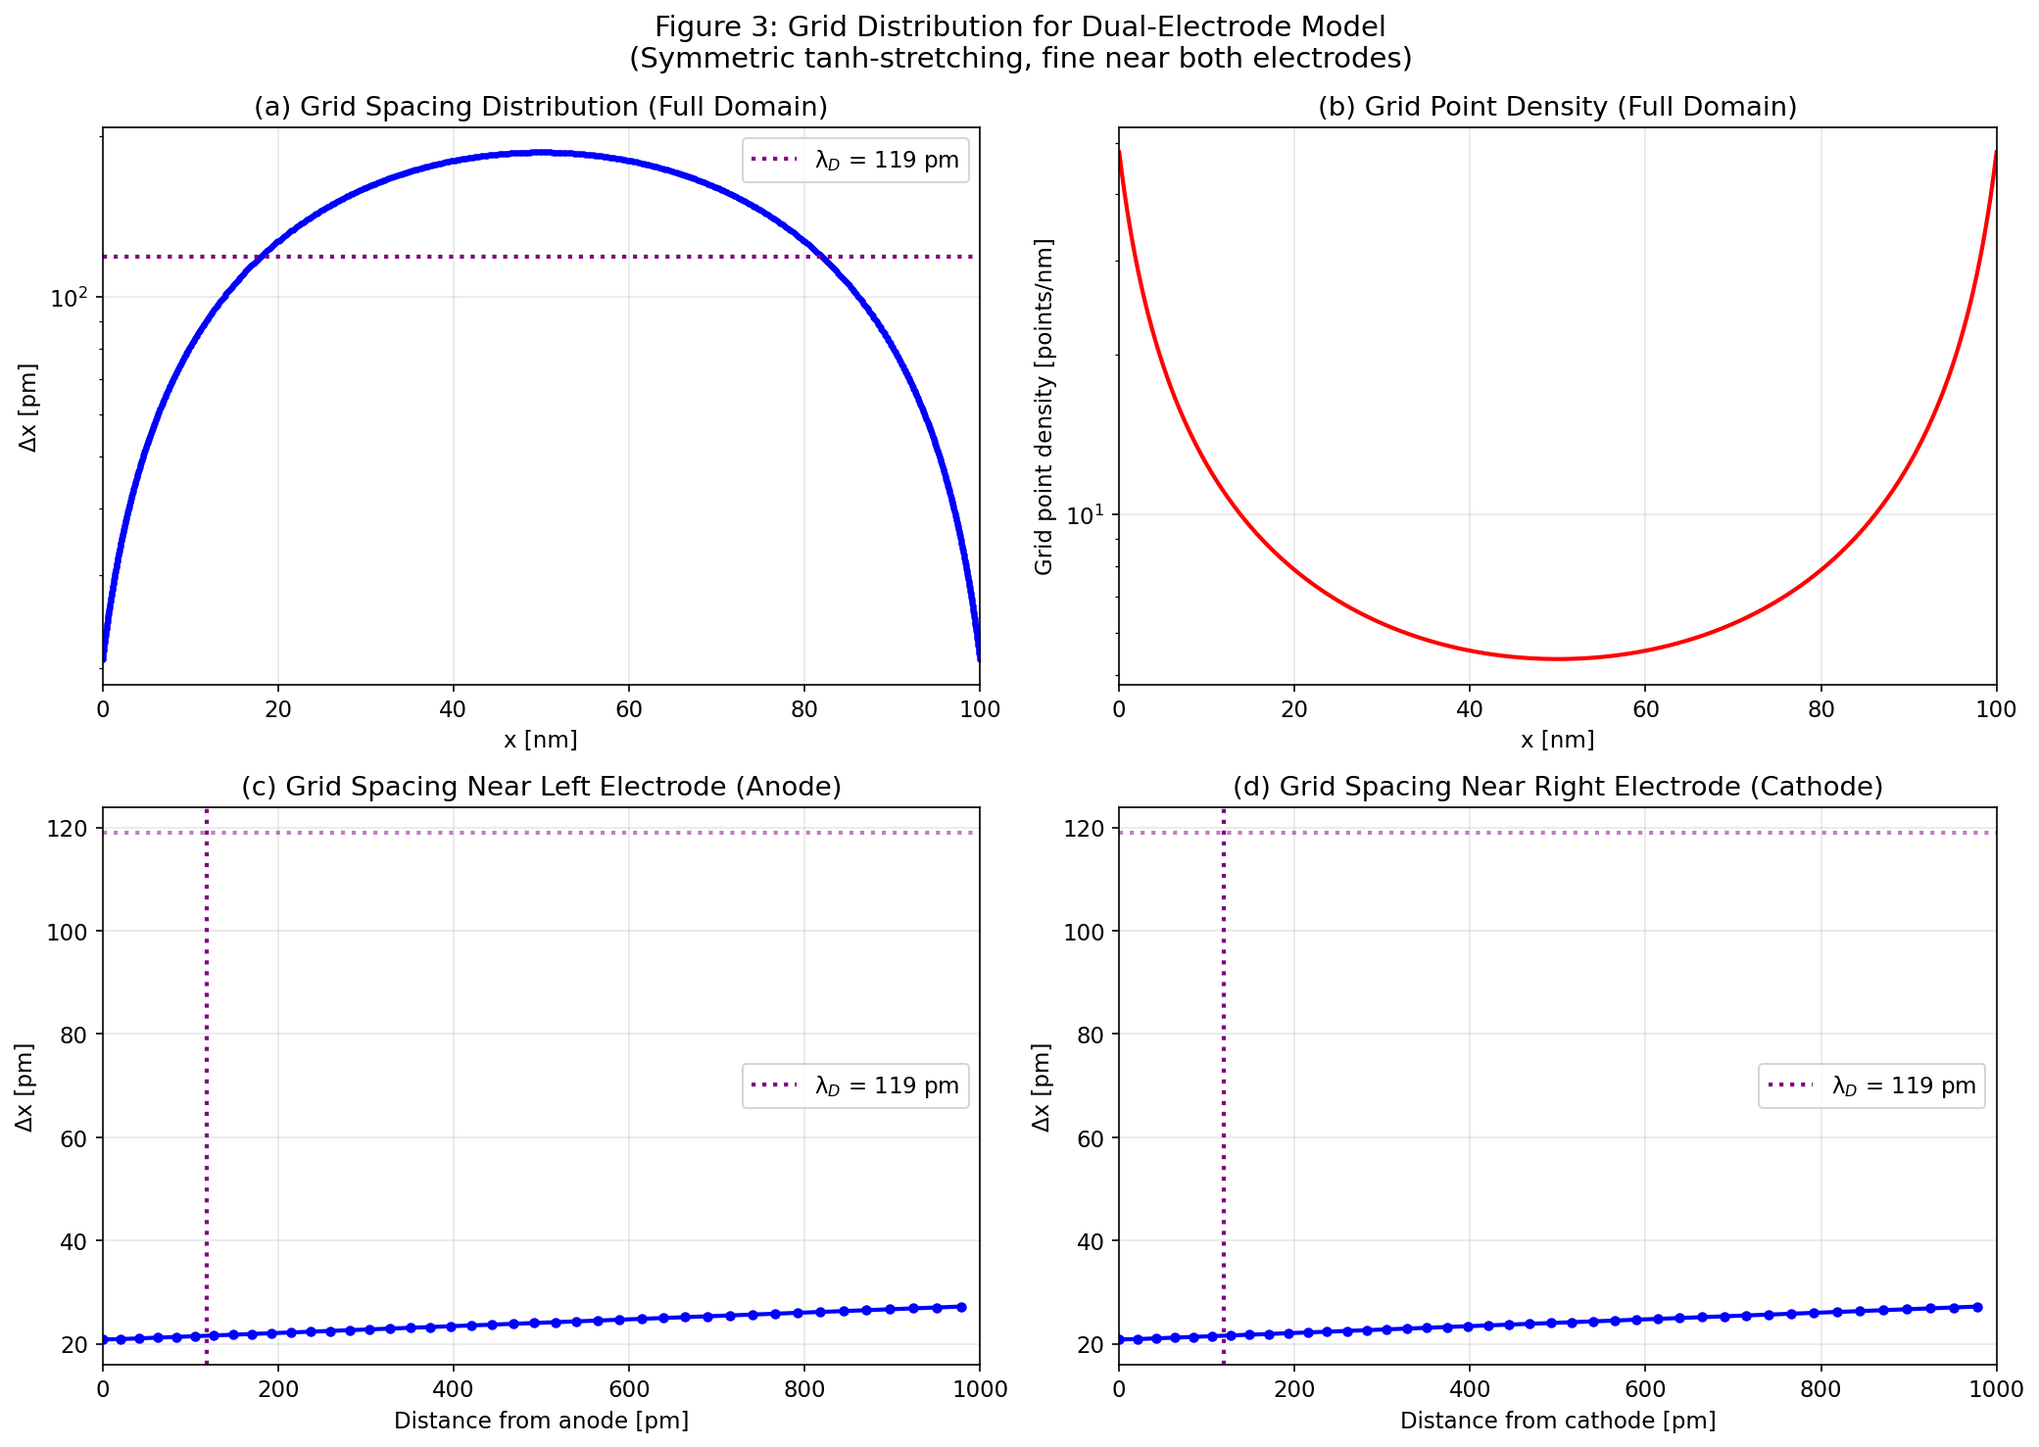
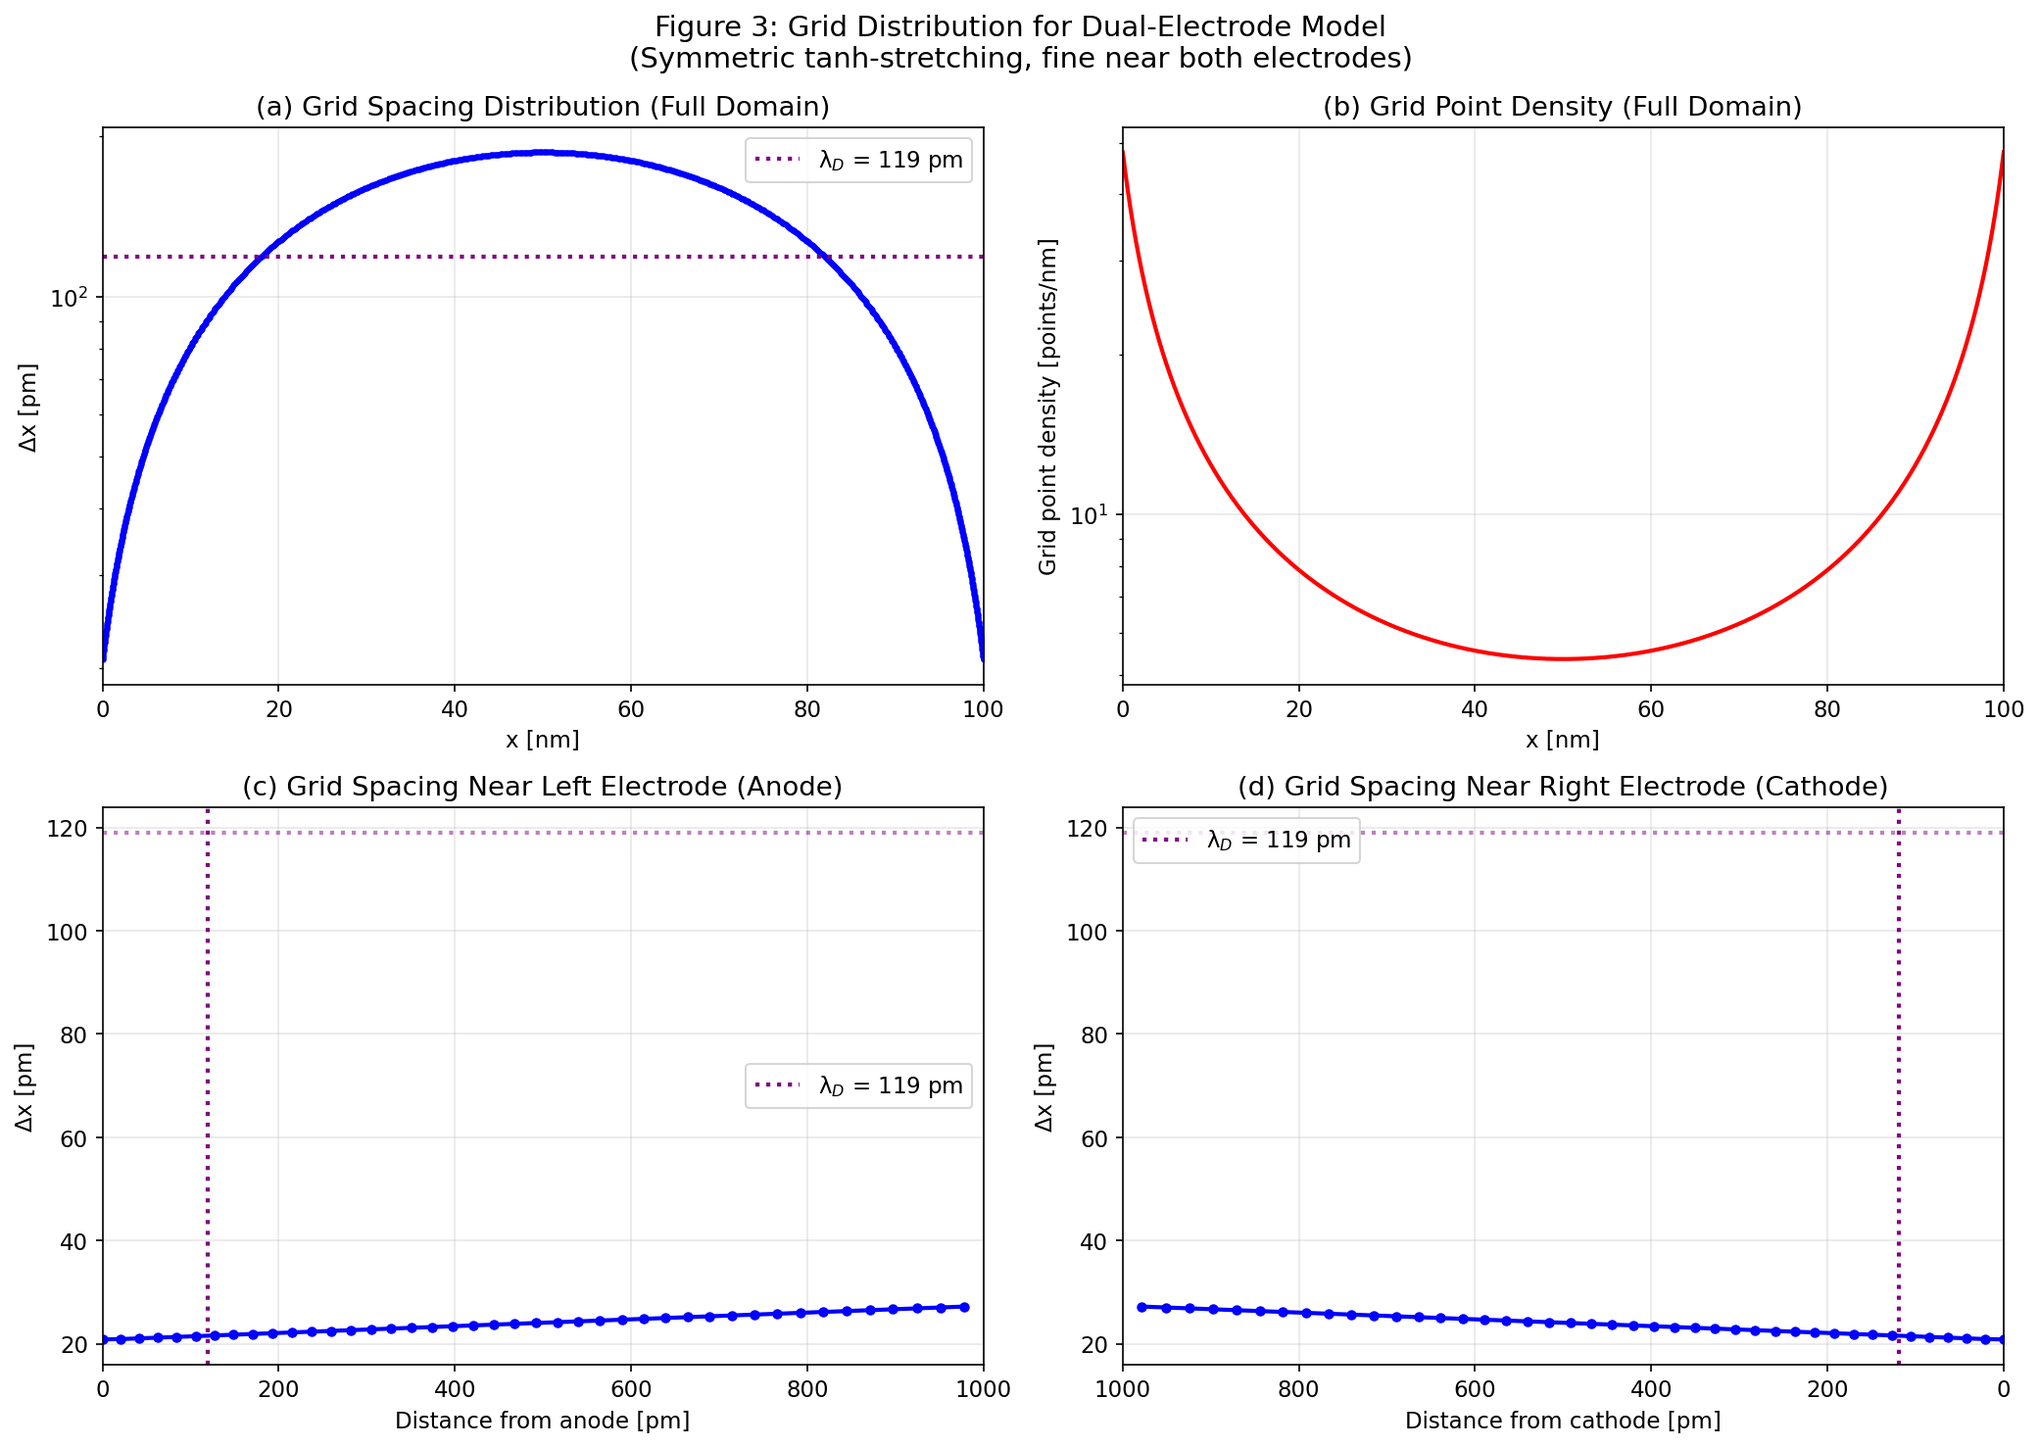
Add plot style guide and mirror right EDL display
- Add styles/ directory with standard plot style utilities
- Mirror right EDL plots (x-axis inverted) for better comparison with left EDL
- Update README with new simulation results (50/0 mV configuration)
- Update CLAUDE.md with plot style guide section

🤖 Generated with [Claude Code](https://claude.com/claude-code)

diff --git a/scripts/plot_dual_electrode.py b/scripts/plot_dual_electrode.py
@@ -117,17 +117,18 @@ lines2, labels2 = ax3b.get_legend_handles_labels()
 ax3.legend(lines1 + lines2, labels1 + labels2, loc='right', fontsize=8)
 
 # Bottom right: Right electrode EDL (zoomed) - Linear scale with potential
+# Mirror image: x-axis reversed so electrode appears on right side
 ax4 = fig.add_subplot(2, 2, 4)
 mask_right = x_nm >= 99.5
 x_right_pm = (100 - x_nm[mask_right]) * 1000  # Distance from cathode in pm
 
-# Plot potential on left axis
+# Plot potential on left axis (data order unchanged, axis inverted)
 ax4.plot(x_right_pm[::-1], phi_mV[mask_right][::-1], 'k-', linewidth=2, label='φ [mV]')
 ax4.axhline(y=phi_bulk_mV, color='gray', linestyle='--', linewidth=1, alpha=0.5)
 ax4.set_xlabel('Distance from cathode [pm]')
 ax4.set_ylabel('φ [mV]')
 ax4.set_title(f'(d) Right EDL (Cathode, φ = {phi_right_mV:+.0f} mV)\nEMI$^+$ accumulation, BF$_4^-$ depletion')
-ax4.set_xlim([0, 500])
+ax4.set_xlim([500, 0])  # Inverted x-axis: electrode on right
 # Dynamic y-limits: from electrode potential to bulk potential with margin
 right_edl_ylim = [min(phi_bulk_mV, phi_right_mV) - 5, max(phi_bulk_mV, phi_right_mV) + 5]
 ax4.set_ylim(right_edl_ylim)
@@ -150,7 +151,7 @@ ax4b.fill_between(x_right_pm[::-1], 0, c_plus_ratio[mask_right][::-1], alpha=0.1
 # Combined legend
 lines1, labels1 = ax4.get_legend_handles_labels()
 lines2, labels2 = ax4b.get_legend_handles_labels()
-ax4.legend(lines1 + lines2, labels1 + labels2, loc='right', fontsize=8)
+ax4.legend(lines1 + lines2, labels1 + labels2, loc='center left', fontsize=8)  # Legend on left side
 
 plt.suptitle(f'Figure 1: Dual-Electrode Model - EMI-BF$_4$ Ionic Liquid\n(φ$_L$ = {phi_left_mV:+.0f} mV, φ$_R$ = {phi_right_mV:+.0f} mV, φ$_{{bulk}}$ = {phi_bulk_mV:.0f} mV, c$_0$ = 1 M, λ$_D$ = 119 pm)',
              fontsize=14, y=0.98)
@@ -187,7 +188,7 @@ lambda_D_pm = 119  # pm
 ax1.axvline(x=lambda_D_pm, color='purple', linestyle=':', linewidth=2, label=f'λ$_D$ = {lambda_D_pm} pm')
 ax1.legend()
 
-# Right EDL with linear scale
+# Right EDL with linear scale (mirror image: electrode on right)
 ax2 = axes[1]
 mask_right = x_nm >= 99.5
 x_right_pm = (100 - x_nm[mask_right]) * 1000  # Distance from cathode in pm
@@ -198,7 +199,7 @@ ax2.axhline(y=1, color='gray', linestyle='--', linewidth=0.5, label='bulk')
 ax2.set_xlabel('Distance from cathode [pm]')
 ax2.set_ylabel('c/c$_0$ [-]')
 ax2.set_title(f'(b) Right EDL (Cathode, φ = {phi_right_mV:+.0f} mV)\nCation accumulation, Anion depletion')
-ax2.set_xlim([0, 500])
+ax2.set_xlim([500, 0])  # Inverted x-axis: electrode on right
 ax2.set_ylim([0, 8])
 ax2.grid(True, alpha=0.3)
 ax2.legend()
@@ -206,7 +207,7 @@ ax2.fill_between(x_right_pm[::-1], 0, c_plus_ratio[mask_right][::-1], alpha=0.2,
 
 # Add Debye length marker
 ax2.axvline(x=lambda_D_pm, color='purple', linestyle=':', linewidth=2, label=f'λ$_D$ = {lambda_D_pm} pm')
-ax2.legend()
+ax2.legend(loc='upper left')  # Legend on left side
 
 plt.suptitle('Figure 2: EDL Structure at Both Electrodes (Linear Scale)', fontsize=14, y=1.02)
 plt.tight_layout()
@@ -258,7 +259,7 @@ ax3.axvline(x=119, color='purple', linestyle=':', linewidth=2, label=f'λ$_D$ = 
 ax3.axhline(y=119, color='purple', linestyle=':', linewidth=2, alpha=0.5)
 ax3.legend()
 
-# Bottom right: Zoomed view near right electrode
+# Bottom right: Zoomed view near right electrode (mirror image: electrode on right)
 ax4 = axes[1, 1]
 mask_right = x_nm >= 99.0
 x_right_pm = (100 - x_nm[mask_right]) * 1000  # Distance from cathode
@@ -268,11 +269,11 @@ ax4.plot(x_right_pm[::-1], dx_right_pm[::-1], 'b-', linewidth=2, marker='o', mar
 ax4.set_xlabel('Distance from cathode [pm]')
 ax4.set_ylabel('Δx [pm]')
 ax4.set_title('(d) Grid Spacing Near Right Electrode (Cathode)')
-ax4.set_xlim([0, 1000])
+ax4.set_xlim([1000, 0])  # Inverted x-axis: electrode on right
 ax4.grid(True, alpha=0.3)
 ax4.axvline(x=119, color='purple', linestyle=':', linewidth=2, label=f'λ$_D$ = 119 pm')
 ax4.axhline(y=119, color='purple', linestyle=':', linewidth=2, alpha=0.5)
-ax4.legend()
+ax4.legend(loc='upper left')  # Legend on left side
 
 plt.suptitle('Figure 3: Grid Distribution for Dual-Electrode Model\n(Symmetric tanh-stretching, fine near both electrodes)',
              fontsize=14, y=0.98)

diff --git a/styles/plot_style.py b/styles/plot_style.py
@@ -1,0 +1,125 @@
+#!/usr/bin/env python3
+"""
+Standard plot style for PNP project.
+Reference: PhD thesis plots (plot1.ipynb style)
+
+Usage:
+    from styles.plot_style import setup_plot_style, setup_axis_style
+
+    fig, ax = plt.subplots(figsize=(3.7, 3.7))
+    setup_axis_style(ax)
+"""
+
+import matplotlib.pyplot as plt
+from matplotlib.ticker import AutoMinorLocator, MultipleLocator
+
+
+def setup_plot_style():
+    """Setup global matplotlib style for publication-quality plots."""
+    plt.rcParams.update({
+        'font.size': 10,
+        'axes.labelsize': 10,
+        'axes.labelweight': 'bold',
+        'axes.titlesize': 10,
+        'axes.titleweight': 'bold',
+        'xtick.labelsize': 10,
+        'ytick.labelsize': 10,
+        'legend.fontsize': 8,
+        'figure.figsize': (3.7, 3.7),
+        'figure.dpi': 150,
+        'savefig.dpi': 300,
+        'savefig.bbox': 'tight',
+    })
+
+
+def setup_axis_style(ax, minor_x=None, minor_y=5):
+    """
+    Setup axis style for publication-quality plots.
+
+    Parameters:
+    -----------
+    ax : matplotlib.axes.Axes
+        The axes to style
+    minor_x : int or float, optional
+        Minor tick interval for x-axis. If int, uses AutoMinorLocator(n).
+        If float, uses MultipleLocator(value). Default: AutoMinorLocator(5)
+    minor_y : int or float, optional
+        Minor tick interval for y-axis. Same logic as minor_x.
+        Default: AutoMinorLocator(5)
+    """
+    # Tick positions on both sides
+    ax.xaxis.set_ticks_position('both')
+    ax.yaxis.set_ticks_position('both')
+
+    # Major ticks
+    ax.xaxis.set_tick_params(which='major', direction='in', length=6, width=1, labelsize=10)
+    ax.yaxis.set_tick_params(which='major', direction='in', length=6, width=1, labelsize=10)
+
+    # Minor ticks
+    ax.xaxis.set_tick_params(which='minor', direction='in', length=3)
+    ax.yaxis.set_tick_params(which='minor', direction='in', length=3)
+    ax.tick_params(which='minor', direction='in', length=3)
+
+    # Minor tick locators
+    if minor_x is not None:
+        if isinstance(minor_x, int):
+            ax.xaxis.set_minor_locator(AutoMinorLocator(minor_x))
+        else:
+            ax.xaxis.set_minor_locator(MultipleLocator(minor_x))
+    else:
+        ax.xaxis.set_minor_locator(AutoMinorLocator(5))
+
+    if minor_y is not None:
+        if isinstance(minor_y, int):
+            ax.yaxis.set_minor_locator(AutoMinorLocator(minor_y))
+        else:
+            ax.yaxis.set_minor_locator(MultipleLocator(minor_y))
+    else:
+        ax.yaxis.set_minor_locator(AutoMinorLocator(5))
+
+
+def set_labels(ax, xlabel, ylabel, fontsize=10, fontweight='bold'):
+    """Set axis labels with standard formatting."""
+    ax.set_xlabel(xlabel, fontsize=fontsize, fontweight=fontweight)
+    ax.set_ylabel(ylabel, fontsize=fontsize, fontweight=fontweight)
+
+
+# Standard figure sizes
+FIGURE_SIZES = {
+    'single': (3.7, 3.7),      # Single panel
+    'wide': (6, 4),            # Wide single panel
+    'double': (7, 3.5),        # Two panels side by side
+    '2x2': (7, 7),             # 2x2 grid
+    'thesis': (3.7, 3.7),      # Thesis standard
+}
+
+# Standard colors (viridis-based)
+from matplotlib import cm
+def get_viridis_colors(n):
+    """Get n colors from viridis colormap."""
+    cmap = cm.get_cmap('viridis', n)
+    return [cmap(i) for i in range(n)]
+
+
+# Example usage
+if __name__ == '__main__':
+    import numpy as np
+
+    setup_plot_style()
+
+    fig, ax = plt.subplots(figsize=FIGURE_SIZES['single'])
+
+    x = np.linspace(0, 10, 100)
+    colors = get_viridis_colors(5)
+    for i, c in enumerate(colors):
+        ax.plot(x, np.sin(x + i), color=c, linewidth=1)
+
+    set_labels(ax, r'$x$ (units)', r'$y$ (units)')
+    setup_axis_style(ax)
+
+    ax.set_xlim(0, 10)
+    ax.set_ylim(-1.5, 1.5)
+
+    plt.tight_layout()
+    plt.savefig('test_style.png')
+    print("Saved: test_style.png")

diff --git a/styles/__init__.py b/styles/__init__.py
@@ -1,0 +1,16 @@
+"""Plot style utilities for PNP project."""
+from .plot_style import (
+    setup_plot_style,
+    setup_axis_style,
+    set_labels,
+    get_viridis_colors,
+    FIGURE_SIZES,
+)
+
+__all__ = [
+    'setup_plot_style',
+    'setup_axis_style',
+    'set_labels',
+    'get_viridis_colors',
+    'FIGURE_SIZES',
+]

diff --git a/README.md b/README.md
@@ -532,12 +532,12 @@ $$p = \frac{\log(L_2^{(1)} / L_2^{(2)})}{\log(N^{(2)} / N^{(1)})}$$
 #### シミュレーション条件
 
 ```bash
-./build/pnp_solver --phi0 100 --phi-right 0 --closed-system --c0 1.0
+./build/pnp_solver --phi0 50 --phi-right 0 --closed-system --c0 1.0
 ```
 
-- 左電極電位（アノード）: $\phi_L = +100$ mV
+- 左電極電位（アノード）: $\phi_L = +50$ mV
 - 右電極電位（カソード）: $\phi_R = 0$ mV
-- バルク電位（自己無撞着に決定）: $\phi_{\text{bulk}} = +50$ mV
+- バルク電位（自己無撞着に決定）: $\phi_{\text{bulk}} = +25$ mV
 - バルク濃度: $c_0 = 1.0$ mol/L
 - 計算領域: $L = 100$ nm
 
@@ -545,15 +545,15 @@ $$p = \frac{\log(L_2^{(1)} / L_2^{(2)})}{\log(N^{(2)} / N^{(1)})}$$
 
 <div align="center">
 
-![Dual Electrode](results/dual_electrode.png?v=5)
+![Dual Electrode](results/dual_electrode.png?v=6)
 
-*図1: EMI-BF₄イオン液体の両電極モデル（φ_L = +100 mV, φ_R = 0 mV, φ_bulk = 50 mV）。(a) 電位プロファイル（全領域）、(b) イオン濃度分布（対数スケール）、(c) 左電極（アノード）近傍のEDL構造、(d) 右電極（カソード）近傍のEDL構造。(c), (d)では左軸に電位、右軸に濃度（線形スケール）を表示。Debye長（λ_D = 119 pm）およびイオン直径（EMI⁺: 760 pm、BF₄⁻: 460 pm）をマーカーで表示。*
+*図1: EMI-BF₄イオン液体の両電極モデル（φ_L = +50 mV, φ_R = 0 mV, φ_bulk = 25 mV）。(a) 電位プロファイル（全領域）、(b) イオン濃度分布（対数スケール）、(c) 左電極（アノード）近傍のEDL構造、(d) 右電極（カソード）近傍のEDL構造（左右反転表示で電極が右端）。(c), (d)では左軸に電位、右軸に濃度（線形スケール）を表示。Debye長（λ_D = 119 pm）およびイオン直径（EMI⁺: 760 pm、BF₄⁻: 460 pm）をマーカーで表示。*
 
 </div>
 
 <div align="center">
 
-![Grid Points](results/dual_electrode_grid_points.png?v=5)
+![Grid Points](results/dual_electrode_grid_points.png?v=6)
 
 *図2: 格子点位置の可視化。両電極近傍の EDL 領域（5λ_D）にそれぞれ 27 点を配置し、バルク領域は粗い格子で効率化。*
 
@@ -561,17 +561,17 @@ $$p = \frac{\log(L_2^{(1)} / L_2^{(2)})}{\log(N^{(2)} / N^{(1)})}$$
 
 | 位置 | 電位 [mV] | c+ [mol/m³] | c+/c₀ | c- [mol/m³] | c-/c₀ |
 |:-----|----------:|------------:|------:|------------:|------:|
-| 左端 (x = 0) | +100.0 | 142.8 | 0.143 | 7001 | 7.00 |
-| バルク (x = L/2) | +50.0 | 1000.0 | 1.00 | 1000.0 | 1.00 |
-| 右端 (x = L) | 0.0 | 7001 | 7.00 | 142.8 | 0.143 |
+| 左端 (x = 0) | +50.0 | 378 | 0.378 | 2646 | 2.65 |
+| バルク (x = L/2) | +25.0 | 1000.0 | 1.00 | 1000.0 | 1.00 |
+| 右端 (x = L) | 0.0 | 2646 | 2.65 | 378 | 0.378 |
 
 **物理的解釈**:
 
-- 左電極（φ = +100 mV、バルク基準で+50 mV）: カチオン（EMI⁺）が排除され（c+/c₀ = 0.14）、アニオン（BF₄⁻）が蓄積（c-/c₀ = 7.0）
-- 右電極（φ = 0 mV、バルク基準で-50 mV）: アニオン（BF₄⁻）が排除され（c-/c₀ = 0.14）、カチオン（EMI⁺）が蓄積（c+/c₀ = 7.0）
-- バルク領域（x ≈ L/2）: 電気的中性（c+/c₀ = c-/c₀ = 1.0）、電位 = 50 mV
-- 両電極でEDLが対称的に形成される（バルク基準での実効電位差 = ±50 mV）
-- 濃度比 exp(±50 mV / 25.7 mV) ≈ 7.0 は Boltzmann 分布と一致
+- 左電極（φ = +50 mV、バルク基準で+25 mV）: カチオン（EMI⁺）が排除され（c+/c₀ = 0.38）、アニオン（BF₄⁻）が蓄積（c-/c₀ = 2.65）
+- 右電極（φ = 0 mV、バルク基準で-25 mV）: アニオン（BF₄⁻）が排除され（c-/c₀ = 0.38）、カチオン（EMI⁺）が蓄積（c+/c₀ = 2.65）
+- バルク領域（x ≈ L/2）: 電気的中性（c+/c₀ = c-/c₀ = 1.0）、電位 = 25 mV
+- 両電極でEDLが対称的に形成される（バルク基準での実効電位差 = ±25 mV）
+- 濃度比 exp(±25 mV / 25.7 mV) ≈ 2.65 は Boltzmann 分布と一致
 
 #### 境界条件オプション
 
@@ -608,13 +608,13 @@ $$p = \frac{\log(L_2^{(1)} / L_2^{(2)})}{\log(N^{(2)} / N^{(1)})}$$
 **例**:
 
 ```bash
-# ユーザー指定: +100 mV / 0 mV
-./build/pnp_solver --phi0 100 --phi-right 0 --closed-system
+# ユーザー指定: +50 mV / 0 mV
+./build/pnp_solver --phi0 50 --phi-right 0 --closed-system
 
 # 結果:
-# - 電荷中性を満たすオフセット: δ = -50 mV
-# - 実効境界条件: +50 mV / -50 mV
-# - バルク電位（中央）: ≈ 0 mV = (100 + 0)/2 - 50
+# - 電荷中性を満たすオフセット: δ = -25 mV
+# - 実効境界条件: +25 mV / -25 mV
+# - バルク電位（中央）: ≈ 0 mV（計算座標系）, 25 mV（ユーザー座標系）
 ```
 
 このように、閉鎖系ではユーザーが指定した電位差は維持されるが、絶対電位（バルク電位）は系が自己無撞着に決定する。これは物理的に正しい挙動であり、実際のキャパシタでは電極間の電位差のみが意味を持ち、絶対電位は外部回路の接地点によって決まる。
@@ -820,10 +820,14 @@ pnp/
 │   └── main.cpp            # メインプログラム
 ├── scripts/
 │   ├── plot_results.py     # 結果可視化スクリプト
+│   ├── plot_dual_electrode.py  # 両電極モデル可視化
 │   ├── plot_convergence.py # 収束性プロット
 │   ├── plot_parametric.py  # パラメトリックスタディ用
 │   ├── create_animation.py # GIFアニメーション生成
 │   └── run_convergence.sh  # 収束性テスト実行スクリプト
+├── styles/
+│   ├── __init__.py         # パッケージ初期化
+│   └── plot_style.py       # 標準プロットスタイル定義
 ├── results/                # 出力データ・図
 ├── Makefile
 └── README.md

diff --git a/CLAUDE.md b/CLAUDE.md
@@ -96,5 +96,33 @@ Non-uniform grid with tanh-stretching near electrodes:
 - `src/main.cpp`: CLI entry point with argument parsing
 - `include/pnp_solver.hpp`: Class definition and parameters struct
 - `scripts/plot_*.py`: Visualization scripts
+- `styles/`: Plot style utilities (see below)
 - `results/`: Output data (.dat) and figures (.png)
 - `docs/`: Reference papers (PDF)
+
+## Plot Style Guide
+
+Standard plot style is defined in `styles/plot_style.py`. Use this for all figures.
+
+```python
+from styles.plot_style import setup_plot_style, setup_axis_style, set_labels, FIGURE_SIZES
+
+setup_plot_style()  # Set global matplotlib defaults
+
+fig, ax = plt.subplots(figsize=FIGURE_SIZES['single'])  # 3.7 x 3.7 inches
+
+# ... plot data ...
+
+set_labels(ax, r'$x$ (units)', r'$y$ (units)')
+setup_axis_style(ax)  # Ticks: direction='in', both sides, minor ticks
+plt.tight_layout()
+```
+
+**Key style elements:**
+- Figure size: 3.7 x 3.7 inches (single panel)
+- Font: 10pt, bold for axis labels
+- Ticks: direction='in', on both sides, major length=6, minor length=3
+- Minor ticks: AutoMinorLocator(5) by default
+- Colors: viridis colormap (`get_viridis_colors(n)`)
+- Line width: 1
+- No legend by default (add only if needed)
